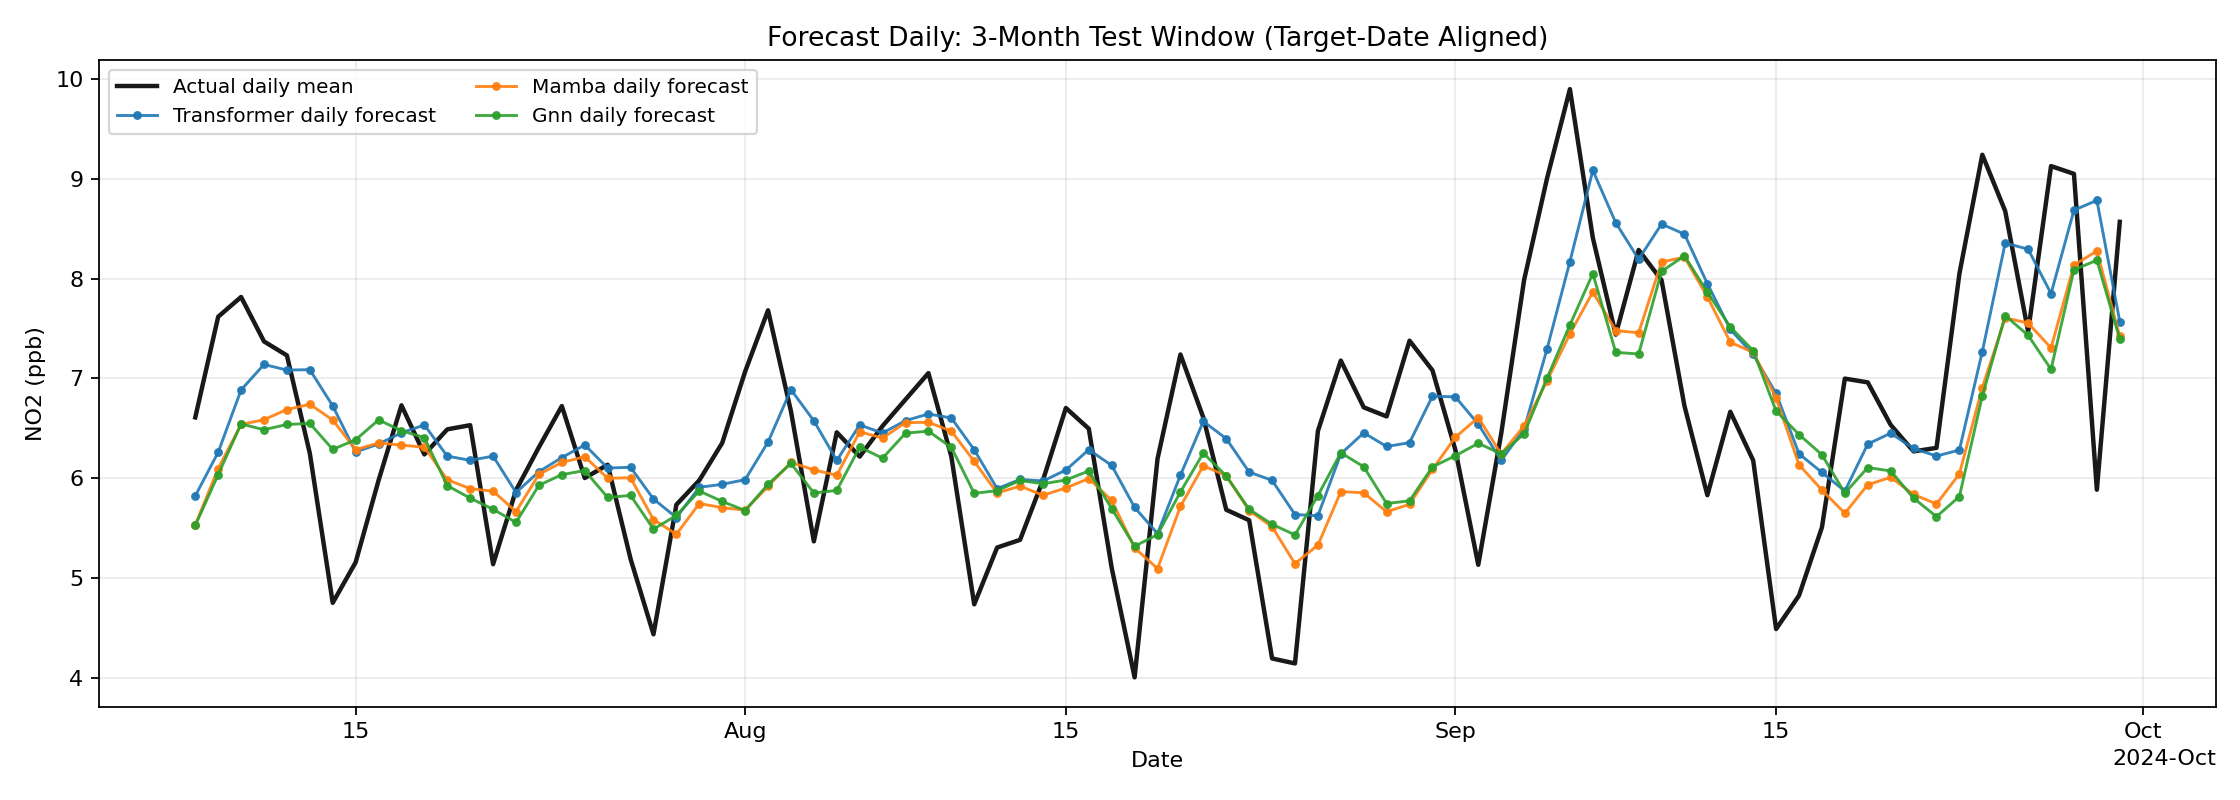
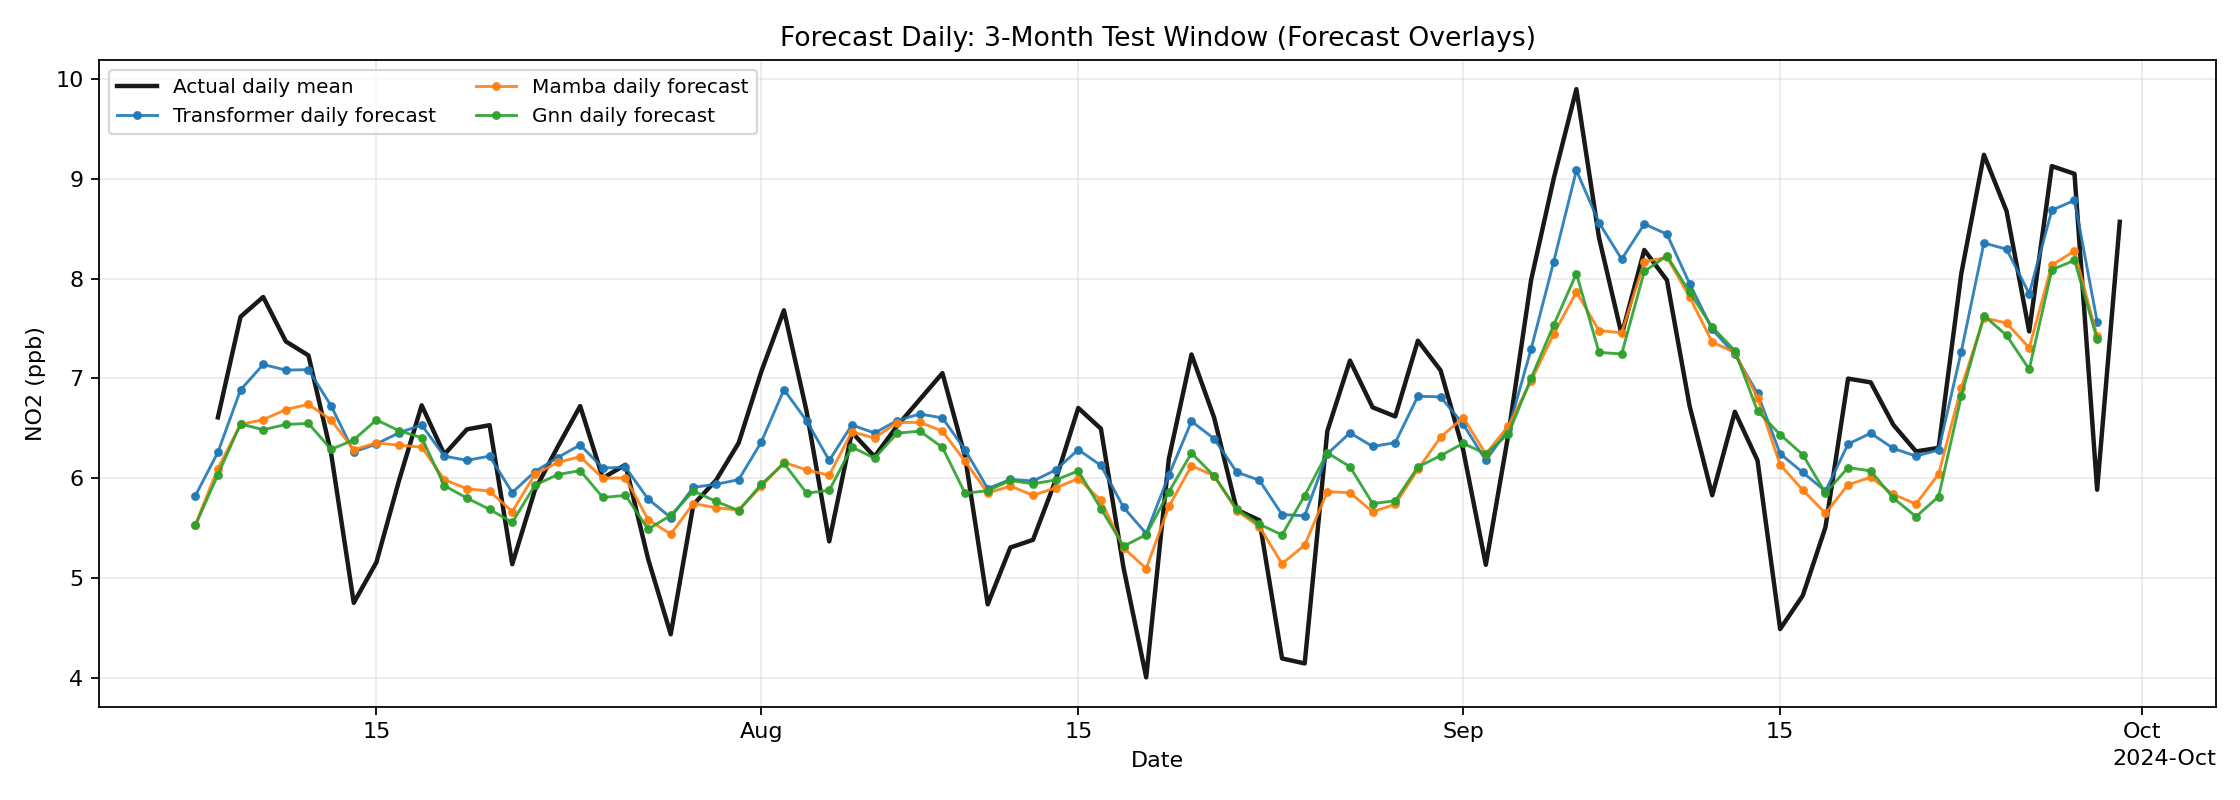
Add plot-only date shift for forecast_daily time-series overlays

diff --git a/forecast_daily/generate_results.py b/forecast_daily/generate_results.py
@@ -177,6 +177,7 @@ def save_plots(
     merged_preds: dict[str, pd.DataFrame],
     metrics_df: pd.DataFrame,
     actual_daily_df: pd.DataFrame,
+    plot_shift_days: int = -1,
 ) -> None:
     plots_dir = results_dir / "plots"
     plots_dir.mkdir(parents=True, exist_ok=True)
@@ -218,12 +219,14 @@ def save_plots(
             )
         aligned_preds[name] = aligned
 
-    # 1) Full daily timeline with aligned forecast overlays.
+    # 1) Full daily timeline with forecast overlays.
+    # `plot_shift_days` is visual-only; metrics remain computed on true target dates.
     plt.figure(figsize=(13, 5))
     plt.plot(actual_daily["date"], actual_daily["airnow_no2"], label="Actual", linewidth=2.0, color="black", alpha=0.85)
     for name, aligned in aligned_preds.items():
-        plt.plot(aligned["date"], aligned["pred_ppb"], label=f"{name.title()} Pred", linewidth=1.6, alpha=0.9, color=color_map.get(name))
-    plt.title("Forecast Daily: Full Timeline (Actual Daily vs Date-Aligned Forecasts)")
+        plot_dates = aligned["date"] + pd.to_timedelta(plot_shift_days, unit="D")
+        plt.plot(plot_dates, aligned["pred_ppb"], label=f"{name.title()} Pred", linewidth=1.6, alpha=0.9, color=color_map.get(name))
+    plt.title("Forecast Daily: Full Timeline (Actual Daily vs Forecast Overlays)")
     plt.xlabel("Date")
     plt.ylabel("NO2 (ppb)")
     plt.grid(alpha=0.25)
@@ -232,7 +235,7 @@ def save_plots(
     plt.savefig(plots_dir / "timeseries_all_models.png", dpi=160)
     plt.close()
 
-    # 1b) Daily line + prediction markers on exact valid target dates (NaN elsewhere).
+    # 1b) Daily line + prediction markers with optional visual shift.
     fig, ax = plt.subplots(figsize=(14, 5))
     ax.plot(
         actual_daily["date"],
@@ -244,8 +247,9 @@ def save_plots(
     )
 
     for name, aligned in aligned_preds.items():
+        plot_dates = aligned["date"] + pd.to_timedelta(plot_shift_days, unit="D")
         ax.plot(
-            aligned["date"],
+            plot_dates,
             aligned["pred_ppb"],
             label=f"{name.title()} daily forecast",
             linewidth=1.2,
@@ -255,7 +259,7 @@ def save_plots(
             color=color_map.get(name),
         )
 
-    ax.set_title("Forecast Daily: Full Daily Series With Target-Aligned Forecasts")
+    ax.set_title("Forecast Daily: Full Daily Series With Forecast Overlays")
     ax.set_xlabel("Date")
     ax.set_ylabel("NO2 (ppb)")
     ax.grid(alpha=0.25)
@@ -266,7 +270,7 @@ def save_plots(
     plt.savefig(plots_dir / "daily_timeseries_with_target_aligned_forecasts.png", dpi=160)
     plt.close(fig)
 
-    # 1c) Zoomed 3-month (test target) view with strict target-date alignment.
+    # 1c) Zoomed 3-month (test target) view with optional visual shift.
     target_date_values: list[pd.Timestamp] = []
     for aligned in aligned_preds.values():
         valid_dates = aligned.loc[aligned["pred_ppb"].notna(), "date"]
@@ -290,8 +294,9 @@ def save_plots(
 
         for name, aligned in aligned_preds.items():
             zoom_pred = aligned[(aligned["date"] >= zoom_start) & (aligned["date"] <= zoom_end)]
+            plot_dates = zoom_pred["date"] + pd.to_timedelta(plot_shift_days, unit="D")
             ax.plot(
-                zoom_pred["date"],
+                plot_dates,
                 zoom_pred["pred_ppb"],
                 label=f"{name.title()} daily forecast",
                 linewidth=1.3,
@@ -301,7 +306,7 @@ def save_plots(
                 color=color_map.get(name),
             )
 
-        ax.set_title("Forecast Daily: 3-Month Test Window (Target-Date Aligned)")
+        ax.set_title("Forecast Daily: 3-Month Test Window (Forecast Overlays)")
         ax.set_xlabel("Date")
         ax.set_ylabel("NO2 (ppb)")
         ax.grid(alpha=0.25)
@@ -363,6 +368,12 @@ def main() -> None:
         help="Last date included in training. Use 'auto' for first full-year chronological split.",
     )
     p.add_argument("--seed", type=int, default=42)
+    p.add_argument(
+        "--plot-shift-days",
+        type=int,
+        default=-1,
+        help="Shift prediction dates in plots only (e.g., -1 for one-day left shift).",
+    )
     p.add_argument(
         "--results-dir",
         type=str,
@@ -471,7 +482,7 @@ def main() -> None:
     metrics_df.to_csv(metrics_csv, index=False)
     metrics_df.to_json(metrics_json, orient="records", indent=2)
 
-    save_plots(results_dir, merged_preds, metrics_df, daily_df)
+    save_plots(results_dir, merged_preds, metrics_df, daily_df, plot_shift_days=args.plot_shift_days)
 
     print("\nDone. Artifacts saved to:", results_dir)
     print("- Daily CSV")

diff --git a/forecast_daily/results/README.md b/forecast_daily/results/README.md
@@ -20,6 +20,12 @@ Optional anti-lag setting:
 python forecast_daily/generate_results.py --epochs 50 --delta-loss-weight 0.35
 ```
 
+Optional visual date shift (left-shift prediction curves in plots only):
+
+```bash
+python forecast_daily/generate_results.py --epochs 50 --plot-shift-days -1
+```
+
 Methodology pipeline:
 1. Build one canonical daily NO2 mean series (site-mean values per day).
 2. Keep one scalar NO2 value per day as the only model input channel.
@@ -36,6 +42,10 @@ Methodology pipeline:
 
 Anti-lag note:
 - Training uses a small day-to-day slope matching term (`--delta-loss-weight`) so predictions react faster to rises/drops instead of trailing by one day.
+
+Plot-shift note:
+- `--plot-shift-days` changes plotted prediction dates only (default `-1` for one-day left shift).
+- Reported metrics remain computed on true t+1 target dates from `predictions_*.csv`.
 
 ## Model results (this run)
 
@@ -60,7 +70,7 @@ Quick takeaways:
 
 What this plot is:
 - Black line: actual daily NO2 across the full daily train+test timeline.
-- Colored lines: each model prediction on target dates only (NaN on non-target dates).
+- Colored lines: each model prediction overlaid with optional visual date shift.
 
 How to interpret:
 - Better models follow the black line shape, peaks, and dips.
@@ -76,10 +86,10 @@ What to look for in this run:
 
 What this plot is:
 - Gray line: actual daily mean NO2 across the full daily train+test timeline.
-- Colored markers/lines: each model's daily forecast values on target dates only.
+- Colored markers/lines: each model's daily forecast values with optional visual date shift.
 
 How to interpret:
-- Forecast points must align to the target date, not the last input date.
+- Forecast points may be intentionally shifted left/right for visualization when `--plot-shift-days` is used.
 - No forecast values should appear before the test target window.
 - Any visible right-shift or left-shift against daily dates indicates an alignment bug.
 - Gaps before the first test target date are expected and confirm correct alignment.
